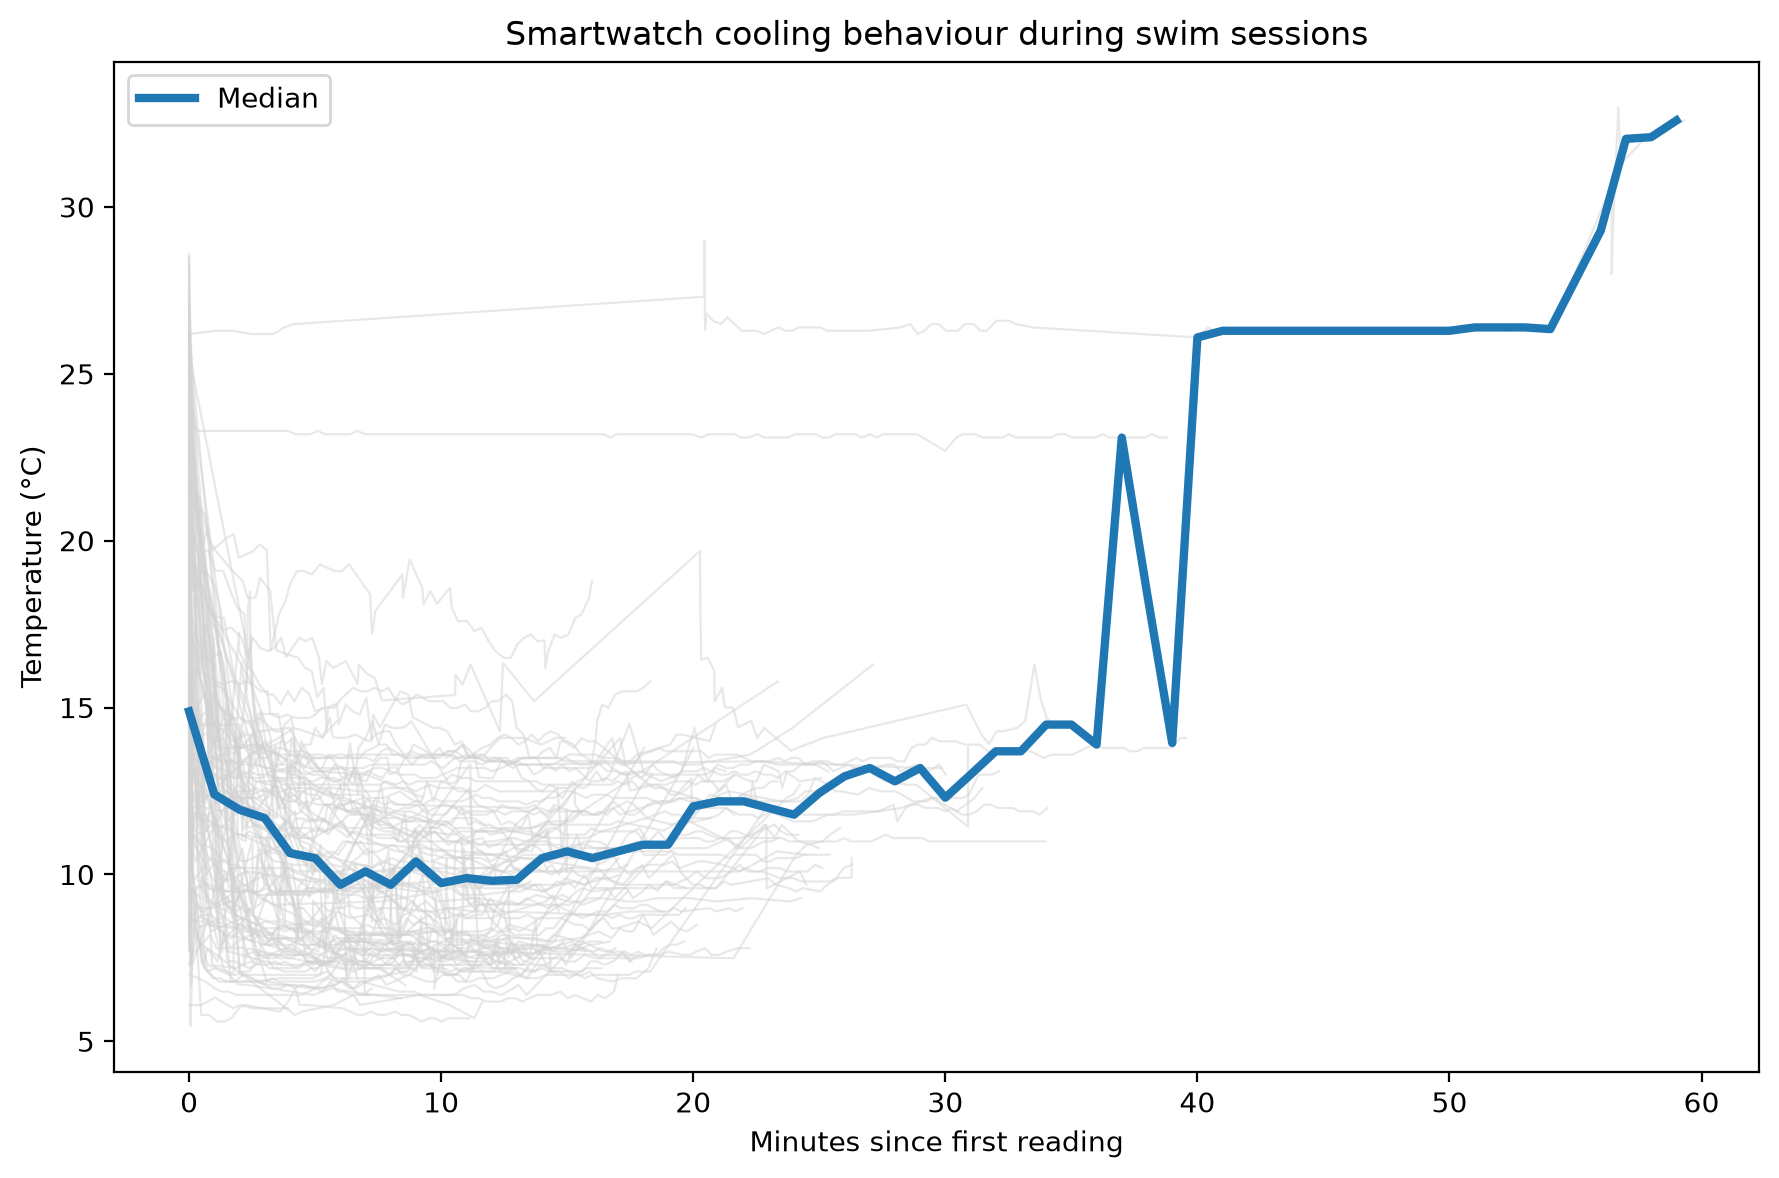
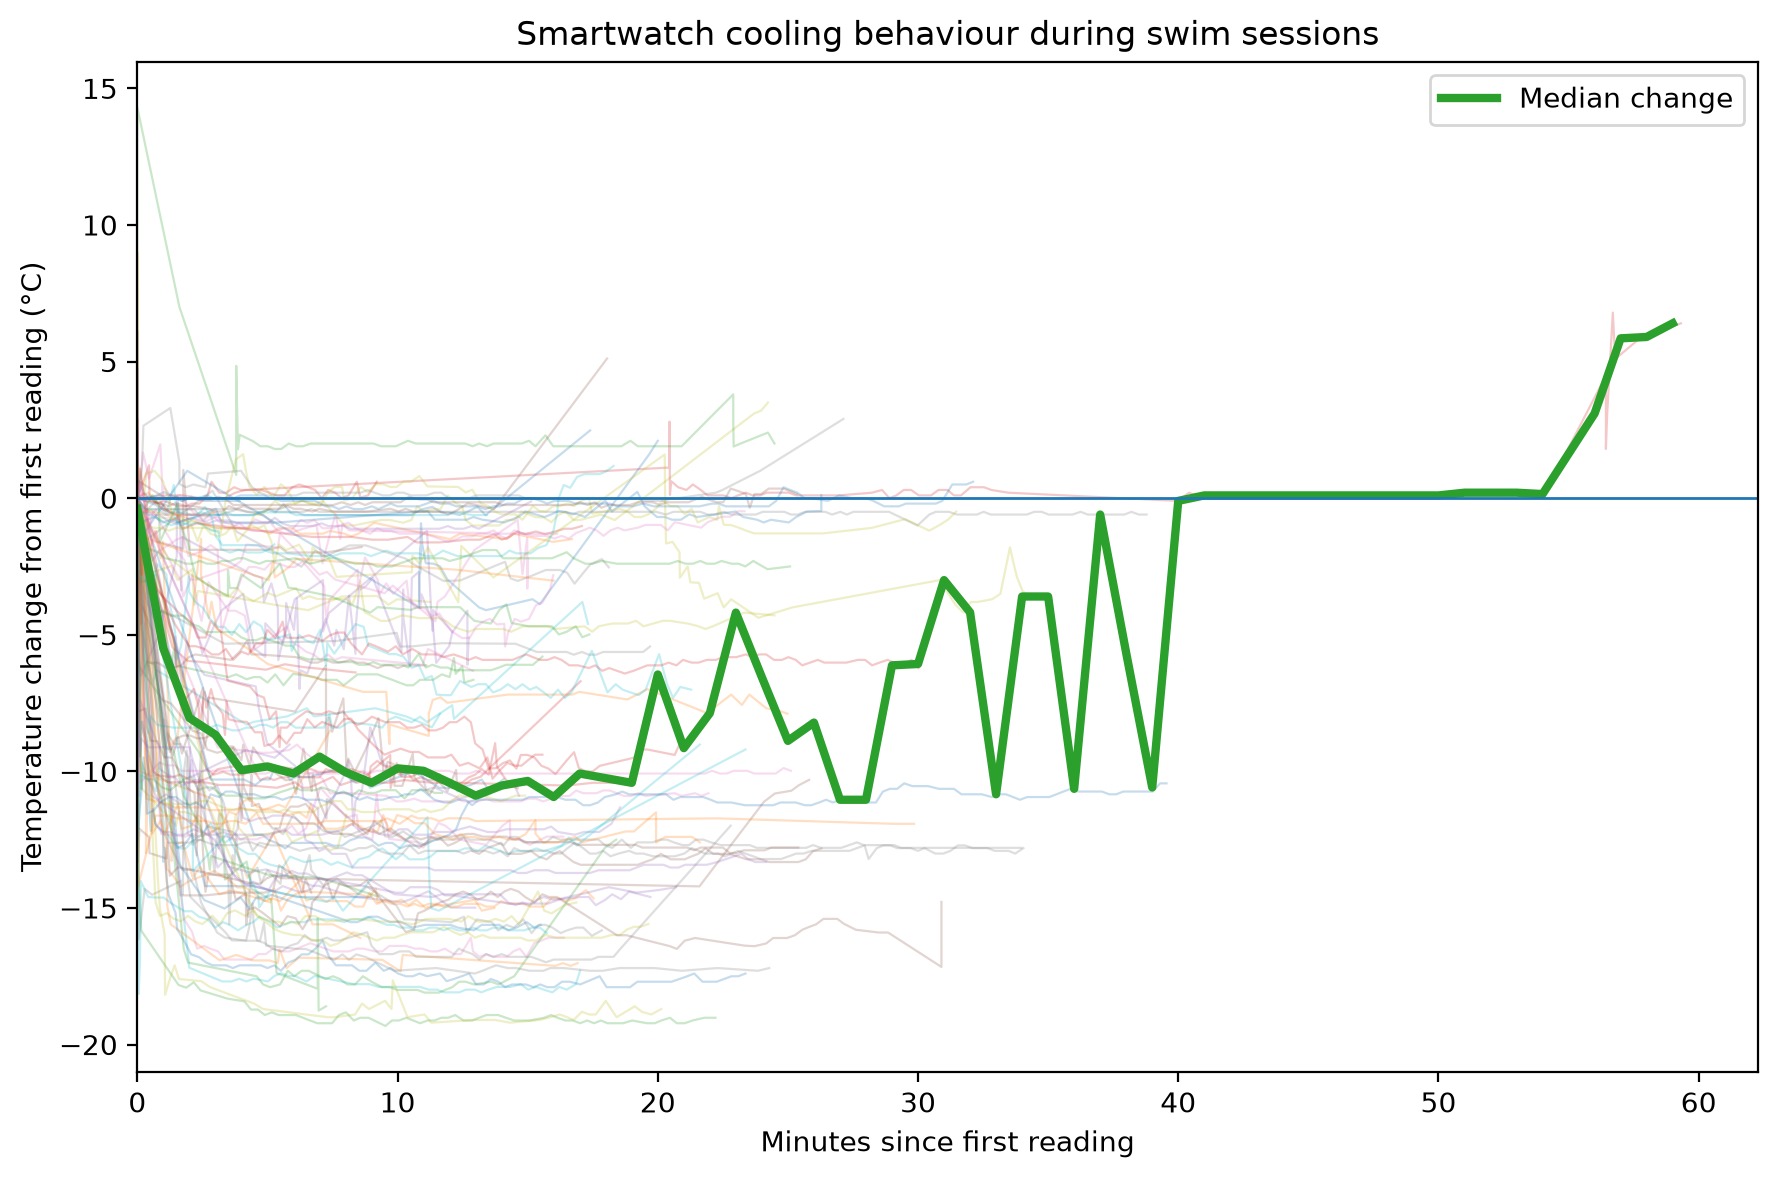
Update smartwatch report

diff --git a/smartwatch.html b/smartwatch.html
@@ -80,7 +80,7 @@ a {
 <ul>
 <li><strong>5,129</strong> smartwatch water temperature observations were analysed.</li>
 <li>These observations formed <strong>255</strong> swim sessions using a 30-minute gap rule.</li>
-<li><strong>109 sessions (42.7%)</strong> contained five or more readings and are suitable candidates for stable plateau analysis.</li>
+<li><strong>109 sessions (42.7%)</strong> contained five or more readings and provide sufficient observations to investigate stable temperature plateau detection. </li>
 <li>The median sampling interval was <strong>17.0 seconds</strong>, providing high temporal resolution within sessions.</li>
 <li>The data support deriving <strong>one representative temperature per swim session</strong>, rather than treating observations as independent temperature measurements.</li>
 </ul>
@@ -140,17 +140,21 @@ a {
 <h2>Sensor cooling behaviour</h2>
 
 <p>
-The chart below shows longer swim sessions aligned to the first recorded temperature
-measurement. Individual sessions are shown as separate traces, while the median
-behaviour across sessions is highlighted.
-</p>
-
-<p>
-This helps characterise how quickly the smartwatch sensor approaches thermal
-equilibrium with the surrounding seawater.
+The chart below shows longer swim sessions aligned to the first recorded
+temperature measurement. Each session is normalised so that its first reading
+starts at 0°C. This shows how the smartwatch sensor changes after entering
+the water, rather than showing seasonal differences in sea temperature.
 </p>
 
 <img src="reports/charts/cooling_curves.png" alt="Smartwatch cooling behaviour during swim sessions">
+
+<p>
+The second chart summarises the median temperature change by reading number.
+This helps assess how many readings are typically needed before the sensor
+approaches a stable value.
+</p>
+
+<img src="reports/charts/temperature_by_reading_number.png" alt="Median temperature change by reading number">
 </div>
 
 <div class="card">